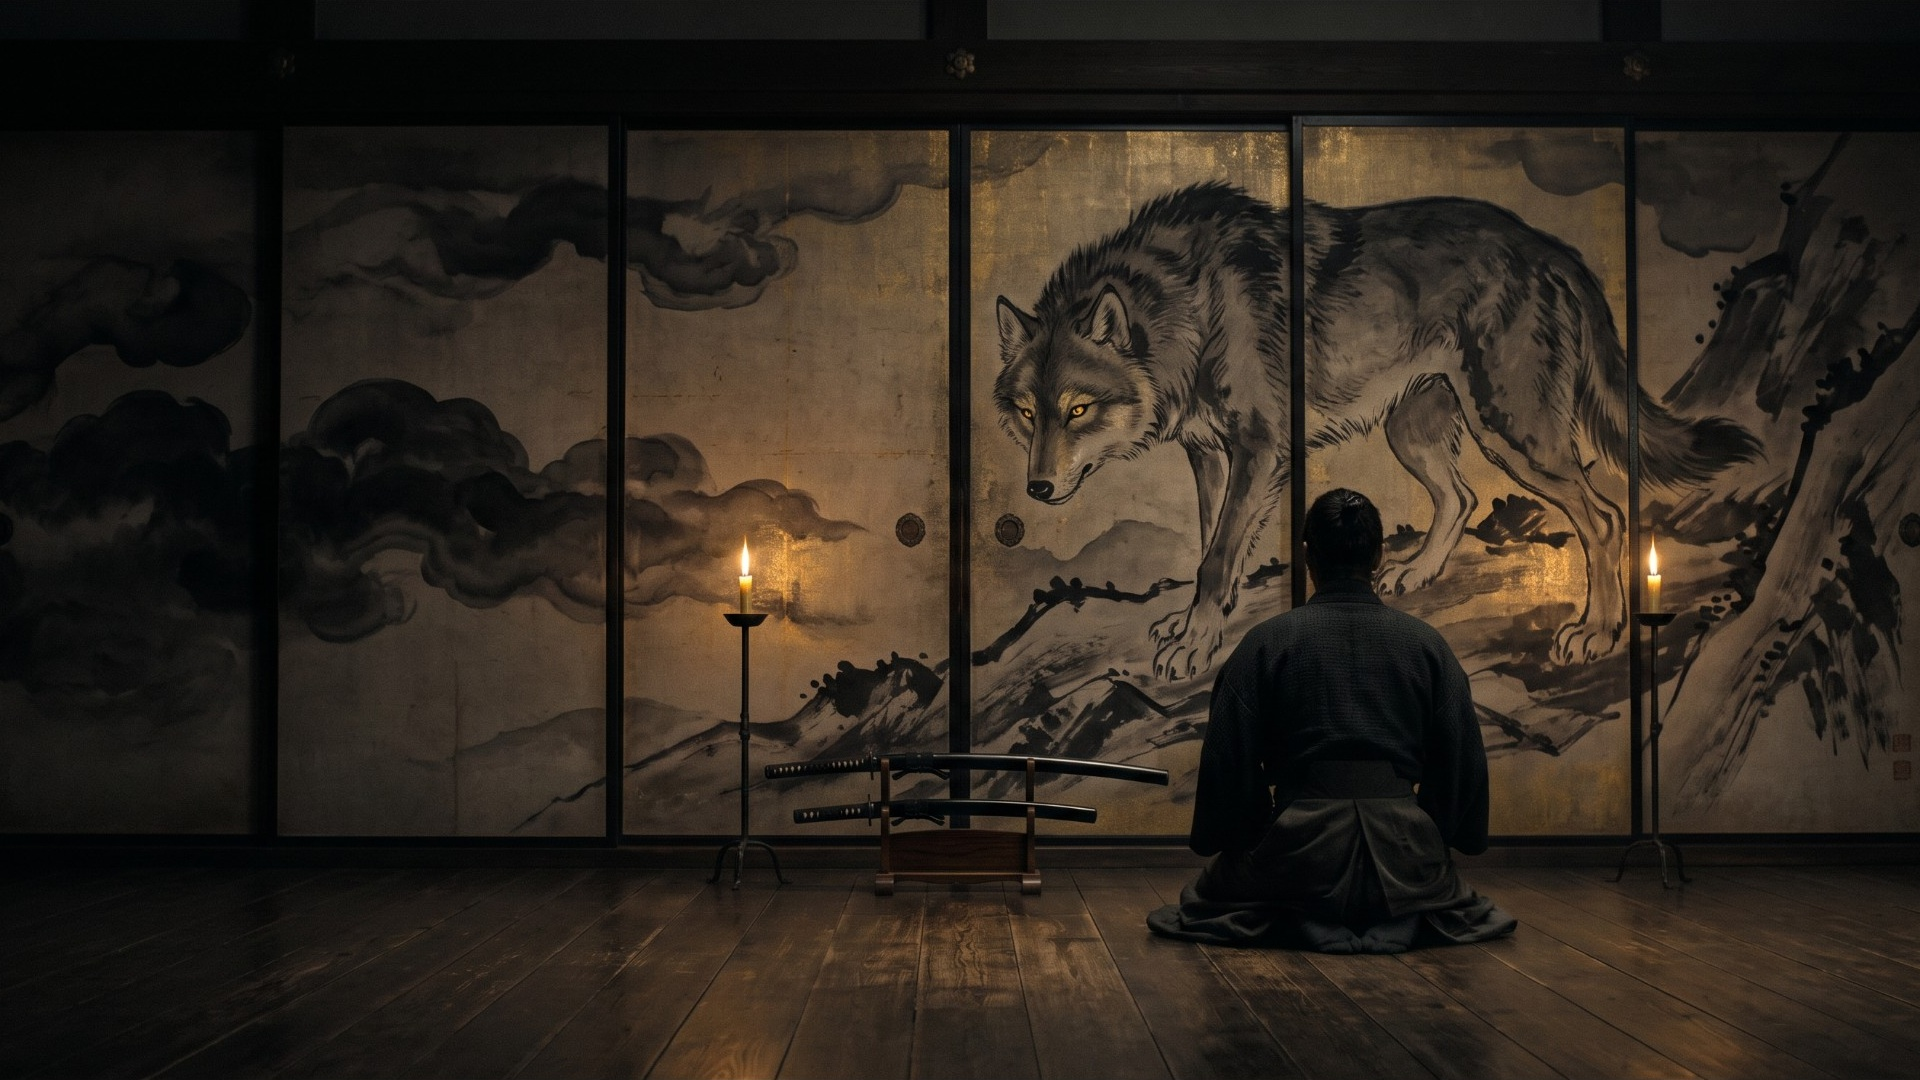
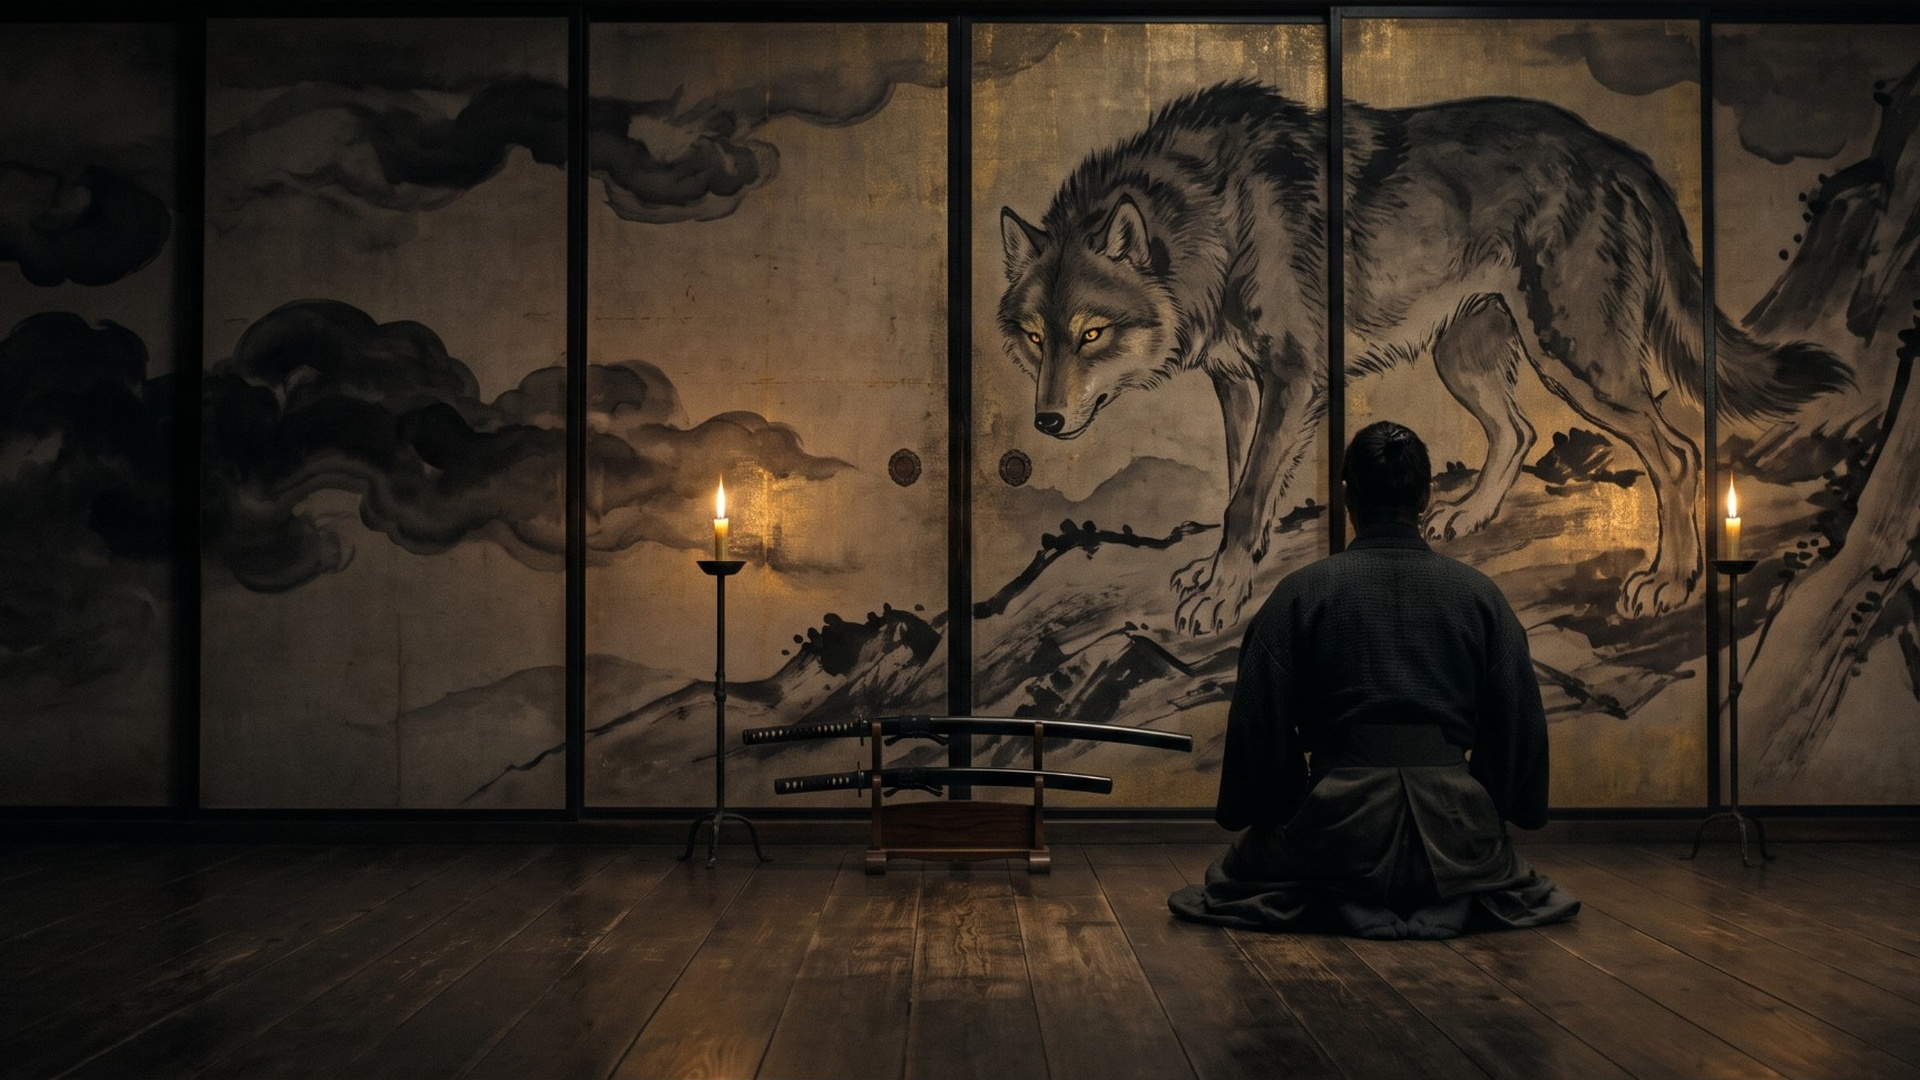
ŌKAMI: recrop without the beam above the doors, door rails held still, eyes glow
Claude-Session: https://claude.ai/code/session_014rUxCAgr4C7iAmMHbP4fFt

diff --git a/stillwave/assets/okami-animate.py b/stillwave/assets/okami-animate.py
@@ -23,7 +23,7 @@ def pnoise(t, ks, amp=1.0):
     return lambda t: amp * sum(wi * np.sin(2 * np.pi * k * t / T + p) for k, p, wi in zip(ks, ph, w)) / sum(w)
 def gauss(cx, cy, s): return np.exp(-((xx - cx) ** 2 + (yy - cy) ** 2) / (2 * s * s))
 
-FLAMES = [(745, 562, 582), (1653, 562, 580)]   # x, flame centre y, flame base y
+FLAMES = [(721, 502, 525), (1733, 502, 525)]   # x, flame centre y, flame base y (frame recropped 2026-11-18)
 # flameless background for each flame patch
 bg = B.copy()
 core = np.zeros((H, W), np.uint8)
@@ -33,24 +33,28 @@ bg = cv2.inpaint(B.astype(np.uint8), cv2.dilate(core, np.ones((5, 5))), 5, cv2.I
 lum = B.mean(2)
 flame_alpha = np.clip((lum - 120) / 100, 0, 1) * (cv2.GaussianBlur(core.astype(np.float32), (0, 0), 3) / 255 > 0.05)
 for fx, fy, fb in FLAMES:   # the wax below the flame is not part of the flame
-    flame_alpha[fb - 2:, fx - 30:fx + 30] = 0
+    flame_alpha[fb - 1:, fx - 30:fx + 30] = 0
 flame_alpha = cv2.GaussianBlur(flame_alpha.astype(np.float32), (0, 0), 1.2)
 
 flick = [pnoise(None, [5, 7, 11, 13, 17]), pnoise(None, [6, 9, 12, 15, 19])]
 sway = [pnoise(None, [3, 4, 7]), pnoise(None, [2, 5, 8])]
-light = [gauss(fx, fy, 330) for fx, fy, _ in FLAMES]
+light = [gauss(fx, fy, 367) for fx, fy, _ in FLAMES]
 
-EYES = [(1027, 412), (1078, 410)]
-eye_glow = sum(gauss(x, y, 5) + 0.35 * gauss(x, y, 16) for x, y in EYES)
+EYES = [(1035, 336), (1091, 334)]
+eye_glow = sum(1.0 * gauss(x, y, 5) + 0.55 * gauss(x, y, 14) + 0.22 * gauss(x, y, 34) for x, y in EYES)
 eye_pulse = pnoise(None, [1, 2])
 
 # ink clouds on the left doors: soft mask, kept away from the left candle
 cloud = np.zeros((H, W), np.float32)
-cv2.rectangle(cloud, (0, 140), (640, 720), 1, -1)
-cv2.rectangle(cloud, (640, 140), (900, 330), 1, -1)
+cv2.rectangle(cloud, (0, 60), (650, 680), 1, -1)
+cv2.rectangle(cloud, (650, 60), (900, 250), 1, -1)
 cloud = cv2.GaussianBlur(cloud, (0, 0), 40)
+# the wooden door frames must not bend: no displacement near the vertical rails or the top rail
+RAILS = [196, 574, 959, 1336, 1708]
+dist = np.min(np.abs(xx[None] - np.array(RAILS, np.float32)[:, None, None]), axis=0)
+cloud *= np.clip((dist - 10) / 30, 0, 1) * np.clip((yy - 45) / 30, 0, 1)
 # wolf torso for the breath
-torso = gauss(1380, 380, 150) * (xx > 1120)
+torso = gauss(1428, 301, 167) * (xx > 1180)
 torso = cv2.GaussianBlur(torso.astype(np.float32), (0, 0), 20)
 
 ff = subprocess.Popen(["ffmpeg", "-v", "error", "-y", "-f", "rawvideo", "-pix_fmt", "bgr24", "-s", f"{W}x{H}",
@@ -63,8 +67,8 @@ for i in range(N):
     dx = cloud * (6 * np.sin(ph + yy / 90) + 3 * np.sin(2 * ph + xx / 140))
     dy = cloud * (2.5 * np.cos(ph + xx / 120))
     br = 0.006 * np.sin(2 * ph)                       # two breaths per loop
-    dy += torso * br * (yy - 470)                      # swell up from the belly line
-    dx += torso * br * 0.5 * (xx - 1380)
+    dy += torso * br * (yy - 401)                      # swell up from the belly line
+    dx += torso * br * 0.5 * (xx - 1428)
     frame = cv2.remap(bg, xx - dx, yy - dy, cv2.INTER_LINEAR, borderMode=cv2.BORDER_REFLECT)
     # flames: scale/sway around their base, then lay over the flameless background
     for k, (fx, fy, fb) in enumerate(FLAMES):
@@ -79,8 +83,8 @@ for i in range(N):
     gain = 1 + 0.055 * (flick[0](t) * light[0] + flick[1](t) * light[1])
     frame = frame * gain[..., None]
     # eyes glimmer
-    e = 0.55 + 0.45 * (0.5 + 0.5 * eye_pulse(t))
-    frame += (eye_glow * e)[..., None] * np.array([40, 140, 230], np.float32) * 0.32
+    e = 0.65 + 0.35 * (0.5 + 0.5 * eye_pulse(t))
+    frame += (eye_glow * e)[..., None] * np.array([45, 150, 240], np.float32) * 0.6
     ff.stdin.write(np.clip(frame, 0, 255).astype(np.uint8).tobytes())
 ff.stdin.close(); ff.wait()
 print("saved", out, N, "frames")
